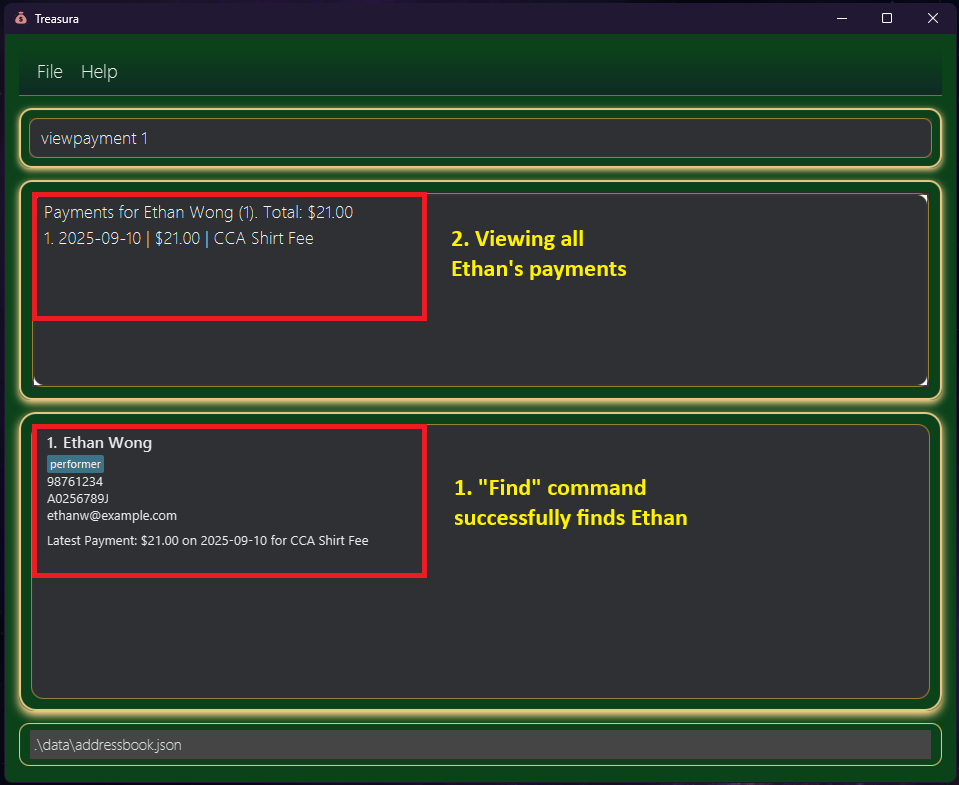
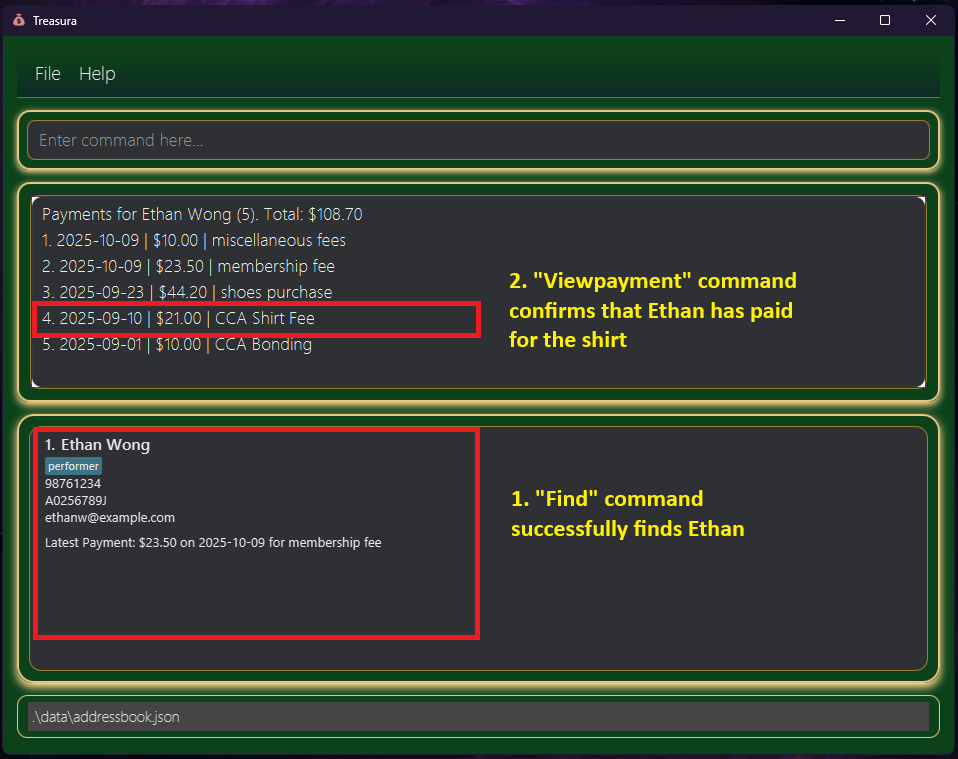
Add screenshots and improve user guide

Changed region(s): [[0.0, 0.0, 1.0, 1.0]]

diff --git a/docs/UserGuide.md b/docs/UserGuide.md
@@ -42,7 +42,7 @@ Refer to the [Features](#features) below for details of more commands.
 
 ---
 
-## 🪙 Typical Treasurer Workflow using Treasura
+## 🪙 Tutorial: Typical Treasurer Workflow using Treasura
 
 Let’s walk through a day in the life of a CCA treasurer, Alex, as he uses **Treasura** to manage member and payment records for his CCA — *NUS Music Ensemble* — at the start of a new Academic Year.
 
@@ -69,6 +69,7 @@ help
 
 The **Help Window** appears, showing a list of all available commands and their formats.  
 ![updated help window](images/UpdatedHelpWindow.png)
+
 Now he’s ready to get started.
 
 ---
@@ -171,14 +172,15 @@ This shows Ethan’s payment history, confirming that he paid on **2025-09-10**.
 
 ### 🧾 Finding a Specific Payment
 
-Alex then wants to verify all payments related to the *CCA Shirt Fee*,  
-but the payment list is getting long. To locate them precisely, he runs:
+Alex also wants to verify if Ethan has paid for *Membership Fees*,  
+but the payment list is getting long. To locate the payment precisely, he runs:
 
 ```
-findpayment 1 r/CCA Shirt
+findpayment 1 r/membership
 ```
 
-This filters only Ethan’s payments that include the remark *“CCA Shirt”*.
+This filters only Ethan’s payments that include the remark *“membership”*.
+![find ethan's payment](images/FindEthansPayment.png)
 
 ---
 
@@ -230,6 +232,26 @@ Note: all commands can be undone using the 'undo' command
 
 ---
 
+### 📊 Checking Total Collections
+
+It’s nearing the end of the semester, and Alex wants to see **how much the CCA has collected in total** from all members — including membership fees, T-shirt payments, and event contributions.
+
+He uses the `viewpayment all` command to quickly view every recorded payment across all members and calculate the **cumulative total**:
+
+```
+viewpayment all
+```
+![view payment all](images/ViewPaymentAll.png)
+
+Treasura neatly lists all members and their respective total payment, together with a **grand total sum across all payments**.
+
+This helps Alex double-check that all funds have been properly recorded before submitting his finance report.
+
+Note that payment sums of archived members are included for financial consistency.
+
+
+---
+
 ### ✅ End of the Day
 
 By the end of the session, Alex has:
@@ -239,8 +261,9 @@ By the end of the session, Alex has:
 - Recorded CCA shirt payments
 - Verified and corrected payment records
 - Used `undo` to revert a mistaken edit
+- Checked the summary of payments and grand total
 
-All without his hands ever leaving the keyboard or opening an EXCEL spreadsheet. 📊
+**All without his hands ever leaving the keyboard or opening an EXCEL spreadsheet!**
 
 <box type="tip" seamless>
 
